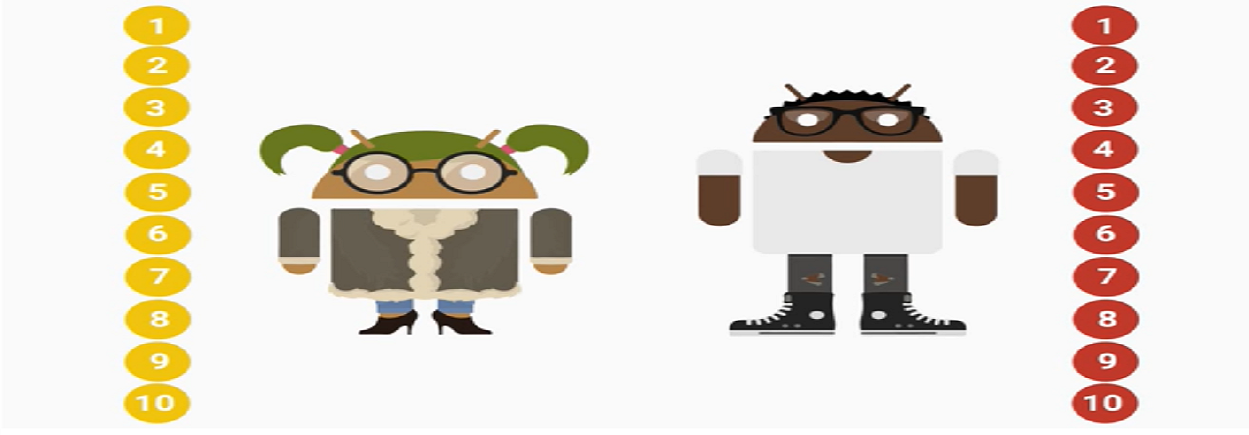
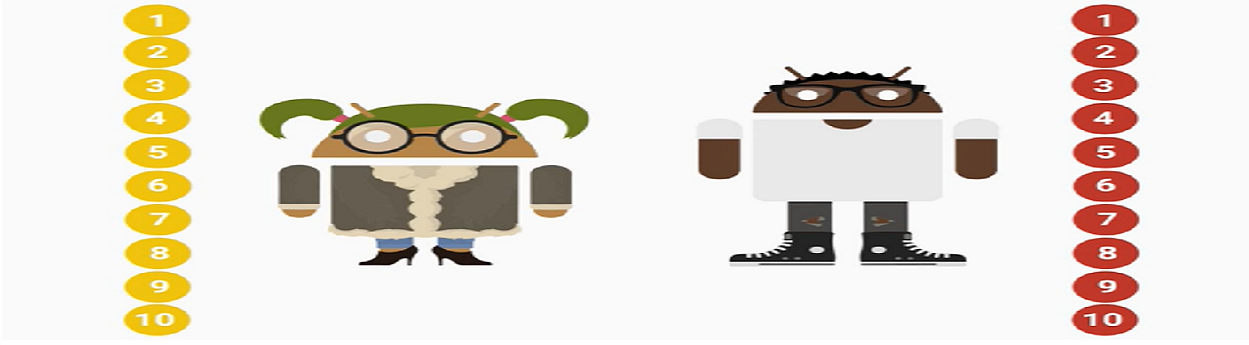
finished setting main modal picture for projects and also short description of projects

diff --git a/projects.html b/projects.html
@@ -315,7 +315,7 @@
 		   ProjectTileImage:"blackhole-tile-2.png",
 		   MainModalImage: "blackhole-final-main.png",
 		   ProjectTileTitle:"Blackhole",
-		   ProjectTileDescription:"Some project description will go here. this is just a test. this is more test",
+		   ProjectTileDescription:"A computer player implementation for 2 player strategy game",
 	       projectImage:"something",
 	       ProjectTitle: "Blackhole",
 	       paragraph1:"Blackhole is a two-player strategy game that implements a computer player using two algorithms: Monte-carlo and min-max. Each player starts with 10 tiles numbered 1 through 10. The number on the tiles represent both their values and the order in which they must be placed onto a triangular board. The board has 21 spaces so one space remains uncovered. Once all the tiles have been placed, the tiles that surround the empty space are sucked into the black hole. The objective of the game is to have fewer points sucked into the black hole than then other player.",
@@ -338,7 +338,7 @@
 		   MainModalImage: "continental-divide-final-main.png",
 		   ProjectTileImage:"continental-divide-tile.png",
 		   ProjectTileTitle:"Continental divide",
-		   ProjectTileDescription:"Some project description will go here. this is just a test. this is more test",
+		   ProjectTileDescription:"A program that determines the continental divide of landmasses",
 	       projectImage:"something",
 	       ProjectTitle: "Continental Divide",
 	       paragraph1:"Continental Divide is an android puzzle application that determines and maps the continental divide of a continental landmass. A continental divide is a geographical term for the boundary which divides a continent into parts where each part leads to a different body of water. A clever way to think about a continental divide is to imagine rain pouring down on an entire continent. The water in each of the various parts made by the divide would flow to a different body of water. The application also handles situations where a part of a landmass will have water flow into a lake. For example, in Africa, the continental divide splits the continent in three parts, without assuming flow of water into lakes:",
@@ -366,7 +366,7 @@
 		   MainModalImage: "wordladder-final-main.png",
 		   ProjectTileImage:"wordladder-tile.png",
 		   ProjectTileTitle:"Wordladder",
-		   ProjectTileDescription:"Some project description will go here. this is just a test. this is more test",
+		   ProjectTileDescription:"Chain words together to form a path between start and end words",
 	       projectImage:"something",
 	       ProjectTitle: "Wordladder",
 	       paragraph1:"Word ladder is a word game invented by Lewis Carroll. It begins with two words, and to solve the puzzle one must find a chain of other words to link the two, in which two adjacent words differ by one letter.",
@@ -388,7 +388,7 @@
 		   ProjectTileImage:"puzzle8-tile.png",
 		   MainModalImage: "puzzle8-main-full-1.png",
 		   ProjectTileTitle:"Puzzle8",
-		   ProjectTileDescription:"Some project description will go here. this is just a test. this is more test",
+		   ProjectTileDescription:" Recreate a numerical sequence or an image",
 	       projectImage:"something",
 	       ProjectTitle: "Puzzle8",
 	       paragraph1: "Puzzle8 is a game that is played with a square grid of tiles which has one tile removed to create an empty space. Although usually the tiles are usually numbered and the goal would be to create the right order, this app uses pictures taken by the user’s camera. ",
@@ -415,7 +415,8 @@
 		   ProjectSubtitle0: "Overview",
 		   ProjectTileImage:"touring-musician-tile.png",
 		   ProjectTileTitle:"Touring musician",
-		   ProjectTileDescription:"Some project description will go here. this is just a test. this is more test",
+		   MainModalImage: "touring-musician-final-main.png",
+		   ProjectTileDescription:"A travelling salesman problem through gigs",
 	       projectImage:"something",
 	       ProjectTitle: "Turing Musician",
 	       paragraph1: "Touring musician is an android app that represents a user with a map and let them add gig locations to the map and figure out a path through the various gigs.",
@@ -438,7 +439,7 @@
 		   ProjectTileImage:"scarnes-dice-tile.png",
 		   MainModalImage: "scarnes-dice-main.png",
 		   ProjectTileTitle:"Scarne's dice",
-		   ProjectTileDescription:"Some project description will go here. this is just a test. this is more test",
+		   ProjectTileDescription:"An android multi-player turn-based dice game",
 	       projectImage:"something",
 	       ProjectTitle: "Scarne's dice",
 	       paragraph1: "Scarnes dice is a turn-based dice game where players score points by rolling a die then if they roll at least one 1, they score no points and will lose their turn; if they roll both 1s, then they will lose all their previous points and lose their turn; if they roll a double, then they have to roll again. The winner is the first person that reaches 100 points.",
@@ -458,8 +459,9 @@
 	       gitHubLink:"https://github.com/natialemu/Machine-Learning/tree/master/2048%20Player",
 		   ProjectSubtitle0: "Overview",
 		   ProjectTileImage:"anagram-tile.png",
+		   MainModalImage: "anagrams-final-main.png",
 		   ProjectTileTitle:"Anagram",
-		   ProjectTileDescription:"Some project description will go here. this is just a test. this is more test",
+		   ProjectTileDescription:"Yet another game which involves anagrams",
 	       projectImage:"something",
 	       ProjectTitle: "Yet another game involving anagrams",
 	       paragraph1: "This is a game involving anagrams which are words formed by rearranging the letters of another word. The game will provide the user with a word from the dictionary. The user then tries to create as many words as possible that contain all the letters of the given word plus one additional letter. Note that adding the extra letter at the beginning of the end without reordering the other letters is not valid. For example, if the game picks the word ‘ore’ as a starter, the user might guess ‘rose’ or ‘zero’ but not ‘sore’. The user can also give up and see the words that they did not guess.",
@@ -481,7 +483,7 @@
 		   MainModalImage: "bst-guesser-final-main.png",
 		   ProjectSubtitle0: "Overview",
 		   ProjectTileTitle:"BST guesser",
-		   ProjectTileDescription:"Some project description will go here. this is just a test. this is more test",
+		   ProjectTileDescription:"A learning tool for visualizing and understanding BSTs",
 	       projectImage:"something",
 	       ProjectTitle: "BST guesser",
 	       paragraph1: "A Binary Search Tree guesser is a game and learning tool designed to effectively visualize how a binary search tree works and also how a binary search tree can rebalance itself when implemented in the form of an AVL tree.",
@@ -501,7 +503,8 @@
 		   ProjectSubtitle0: "Overview",
 		   ProjectTileImage:"jumping-cube-tile.png",
 		   ProjectTileTitle:"Jumping cubes",
-		   ProjectTileDescription:"Some project description will go here. this is just a test. this is more test",
+		   MainModalImage: "jumping-cubes-main.png",
+		   ProjectTileDescription:"A purely strategic game with no element of chance",
 	       projectImage:"something",
 	       ProjectTitle: "Jumping cubes",
 	       paragraph1: "JumpingCube is a simple two-person board game. It is a purely strategy game which involves no element of chance.",
@@ -531,8 +534,9 @@
 	       gitHubLink:"https://github.com/natialemu/Machine-Learning/tree/master/2048%20Player",
 		   ProjectSubtitle0: "Overview",
 		   ProjectTileImage:"alertapp-tile-1.png",
+		   MainModalImage:"alert-final-main.png",
 		   ProjectTileTitle:"Alert app",
-		   ProjectTileDescription:"Some project description will go here. this is just a test. this is more test",
+		   ProjectTileDescription:"Cross-platform app for event management on campus",
 	       projectImage:"something",
 	       ProjectTitle: "Alert App",
 	       paragraph1: "AlertApp is a cross-platform app written using react native through which various student organizations or individuals can send out alerts for events to students who register for an account using their LUC email address. The app is not only limited to student organizations and students. Campus safety or the university can issue out warnings or notify students of dangerous weather conditions. As such, the app serves as a unified event management system for events ranging from social events, academic-related events or safety-related concerns.",
@@ -761,7 +765,7 @@
 		   MainModalImage: "gitlet-final-main.png",
 		   ProjectTileImage:"gitlet-tile.png",
 		   ProjectTileTitle:"Gitlet",
-		   ProjectTileDescription:"Some project description will go here. this is just a test. this is more test",
+		   ProjectTileDescription:"A version control system for saving snapshots of a file",
 	       projectImage:"something",
 	       ProjectTitle: "Gitlet",
 	       paragraph1: "Gitlet is a version control system similar to git. Its purpose is to save snapshots or commits of a file at different points in time. That way, if you mess them up later, you can return to earlier versions of your files. A lot of its features are based on git even though some differences exist. ",
@@ -811,8 +815,9 @@
 	       gitHubLink:"https://github.com/natialemu/Machine-Learning/tree/master/2048%20Player",
 		   ProjectSubtitle0:"Overview",
 		   ProjectTileImage:"jsparser-tile-4.png",
+		   MainModalImage: "jsparser-final-main.png",
 		   ProjectTileTitle:"JS Parser",
-		   ProjectTileDescription:"Some project description will go here. this is just a test. this is more test",
+		   ProjectTileDescription:"A parser and interpreter for a mimified version of javascript",
 	       projectImage:"something",
 	       ProjectTitle: "JavaScript parser",
 	       paragraph1:"The program builds an abstract syntax tree for different constructs in Javascript as well as the dynamic language semantics such as assignments, variables, conditionals and loops as part of  the evaluator. It also has support for constructs such as structure creation, field creation, assignment to an existing field in a structure, and addition of a new field to a structure. The language supports named state, where a mutable store or memory maps named variables to storage cells where values can be stored. If there is a failure, the whole program terminates immediately with that first failure. ",
@@ -840,7 +845,7 @@
 		   MainModalImage: "fms-main.png",
 		   ProjectTileImage:"facility-managment-tile-3.png",
 		   ProjectTileTitle:"Facility Managment System",
-		   ProjectTileDescription:"Some project description will go here. this is just a test. this is more test",
+		   ProjectTileDescription:"A software that handles the use, maintenance and management of facilities",
 	       ProjectTitle: "Facility Managment System",
 	       paragraph1:"It is a program that supports the management of buildings,"
 		   +" their constant use, and maintenance support when needed. It is "
@@ -880,7 +885,8 @@
 		   ProjectSubtitle0: "Overview",
 		   ProjectTileImage:"2048-player-tile.png",
 		   ProjectTileTitle:"2048 Player",
-		   ProjectTileDescription:"Some project description will go here. this is just a test. this is more test",
+		   MainModalImage: "2048player-final-main.png",
+		   ProjectTileDescription:"A learning algorithm that learns to play the game 2048",
 	       projectImage:"something",
 	       ProjectTitle: "2048 Player",
 	       paragraph1: "The goal of the program is to “teach” the computer to play the game 2048. There are two main approaches in terms of implementation. One approach is to use existing data to inform the decisions the computer makes. A dataset was constructed for the computer to use to make predictions of the best sets of moves necessary to score as highly as possible in 2048.",
@@ -906,9 +912,10 @@
 	   var projectOthersData5 = {
 	       gitHubLink:"https://github.com/natialemu/Machine-Learning/tree/master/2048%20Player",
 		   ProjectSubtitle0: "Overview",
+		   MainModalImage: "ngordnet-final-main.png",
 		   ProjectTileImage:"ngordnet-tile.png",
 		   ProjectTileTitle:"Ngord net",
-		   ProjectTileDescription:"Some project description will go here. this is just a test. this is more test",
+		   ProjectTileDescription:"Data analytics on Google's Ngram dataset to determine evolution of printed works",
 	       projectImage:"something",
 	       ProjectTitle: "Ngord net",
 		   paragraph1: "Ngordnet is a program that explores how the volume of printed works in English has changed over time, as well as the structure of the is-a relationships of words in English.",

diff --git a/index.html b/index.html
@@ -396,7 +396,7 @@
 		   ProjectSubtitle0: "Overview",
 		   ProjectTileImage:"gitlet-tile.png",
 		   ProjectTileTitle:"GitLet",
-		   ProjectTileDescription:"Some project description will go here. this is just a test. this is more test",
+		   ProjectTileDescription:"A version control system for saving snapshots of a file",
 	       projectImage:"something",
 	       paragraph1: "Gitlet is a version control system similar to git. Its purpose is to save snapshots or commits of a file at different points in time. That way, if you mess them up later, you can return to earlier versions of your files. A lot of its features are based on git even though some differences exist. ",
 		   ModalSubImage1: "gitletWug.png",
@@ -447,7 +447,7 @@
 		   ProjectSubtitle0: "Overview",
 		   ProjectTileImage:"continental-divide-tile.png",
 		   ProjectTileTitle:"Continental Divide",
-		   ProjectTileDescription:"Some project description will go here. this is just a test. this is more test",
+		   ProjectTileDescription:"A program that determines the continental divide of landmasses",
 	       projectImage:"something",
 	       ProjectTitle: "2048 Player",
 	       paragraph1:"Continental Divide is an android puzzle application that determines and maps the continental divide of a continental landmass. A continental divide is a geographical term for the boundary which divides a continent into parts where each part leads to a different body of water. A clever way to think about a continental divide is to imagine rain pouring down on an entire continent. The water in each of the various parts made by the divide would flow to a different body of water. The application also handles situations where a part of a landmass will have water flow into a lake. For example, in Africa, the continental divide splits the continent in three parts, without assuming flow of water into lakes:",
@@ -475,7 +475,7 @@
 		   ProjectSubtitle0:"Overview",
 		   ProjectTileImage:"facility-managment-tile-3.png",
 		   ProjectTileTitle:"Facility Management System",
-		   ProjectTileDescription:"Some project description will go here. this is just a test. this is more test",
+		   ProjectTileDescription:"A software that handles the use, maintenance and management of facilities",
 	       projectImage:"something",
 	       ProjectTitle: "2048 Player",
 	       paragraph1:"It is a program that supports the management of buildings,"
@@ -512,11 +512,11 @@
 	   };
 	   var projectData4 = {
 	       gitHubLink:"https://github.com/natialemu/javascript-parser",
-		   MainModalImage: "",
+		   MainModalImage: "jsparser-final-main.png",
 		   ProjectSubtitle0:"Overview",
 		   ProjectTileImage:"jsparser-tile-4.png",
 		   ProjectTileTitle:"JS Parser",
-		   ProjectTileDescription:"Some project description will go here. this is just a test. this is more test",
+		   ProjectTileDescription:"A parser and interpreter for a mimified version of javascript",
 	       projectImage:"something",
 	       ProjectTitle: "2048 Player",
 	       paragraph1:"The program builds an abstract syntax tree for different constructs in Javascript as well as the dynamic language semantics such as assignments, variables, conditionals and loops as part of  the evaluator. It also has support for constructs such as structure creation, field creation, assignment to an existing field in a structure, and addition of a new field to a structure. The language supports named state, where a mutable store or memory maps named variables to storage cells where values can be stored. If there is a failure, the whole program terminates immediately with that first failure. ",

diff --git a/styles/portfolio.css b/styles/portfolio.css
@@ -1083,7 +1083,7 @@ button{
     background-color: #C0CA33;
     background-position: center;
     background-size: cover;
-    height: 500px;
+    height: 400px;
     position: relative;
 	margin-bottom: 40px;
 }
